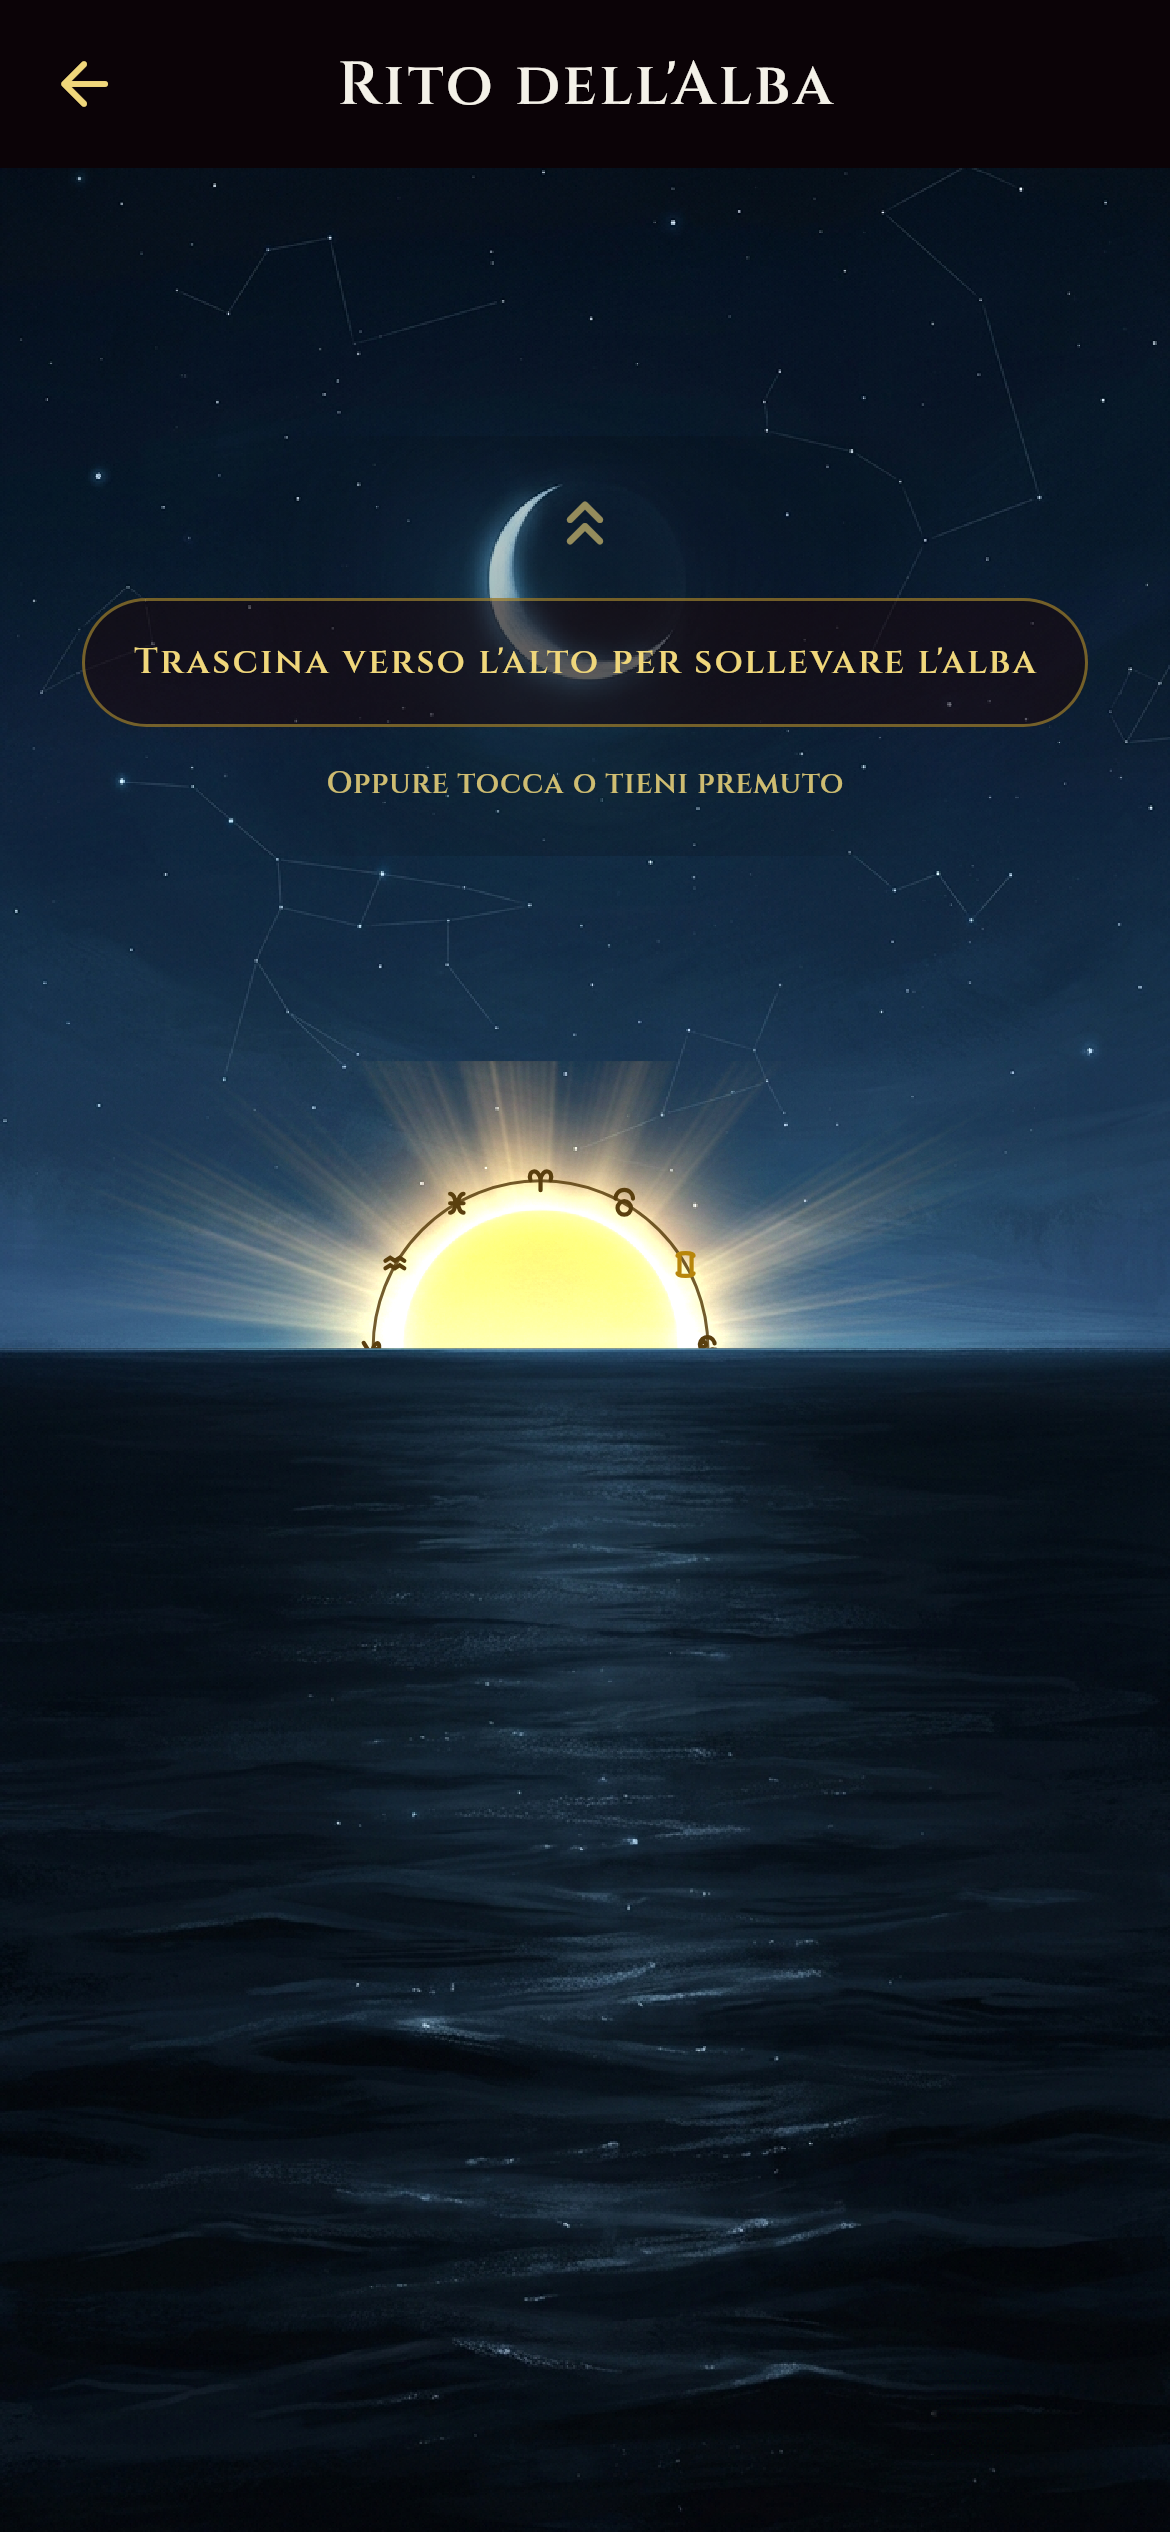
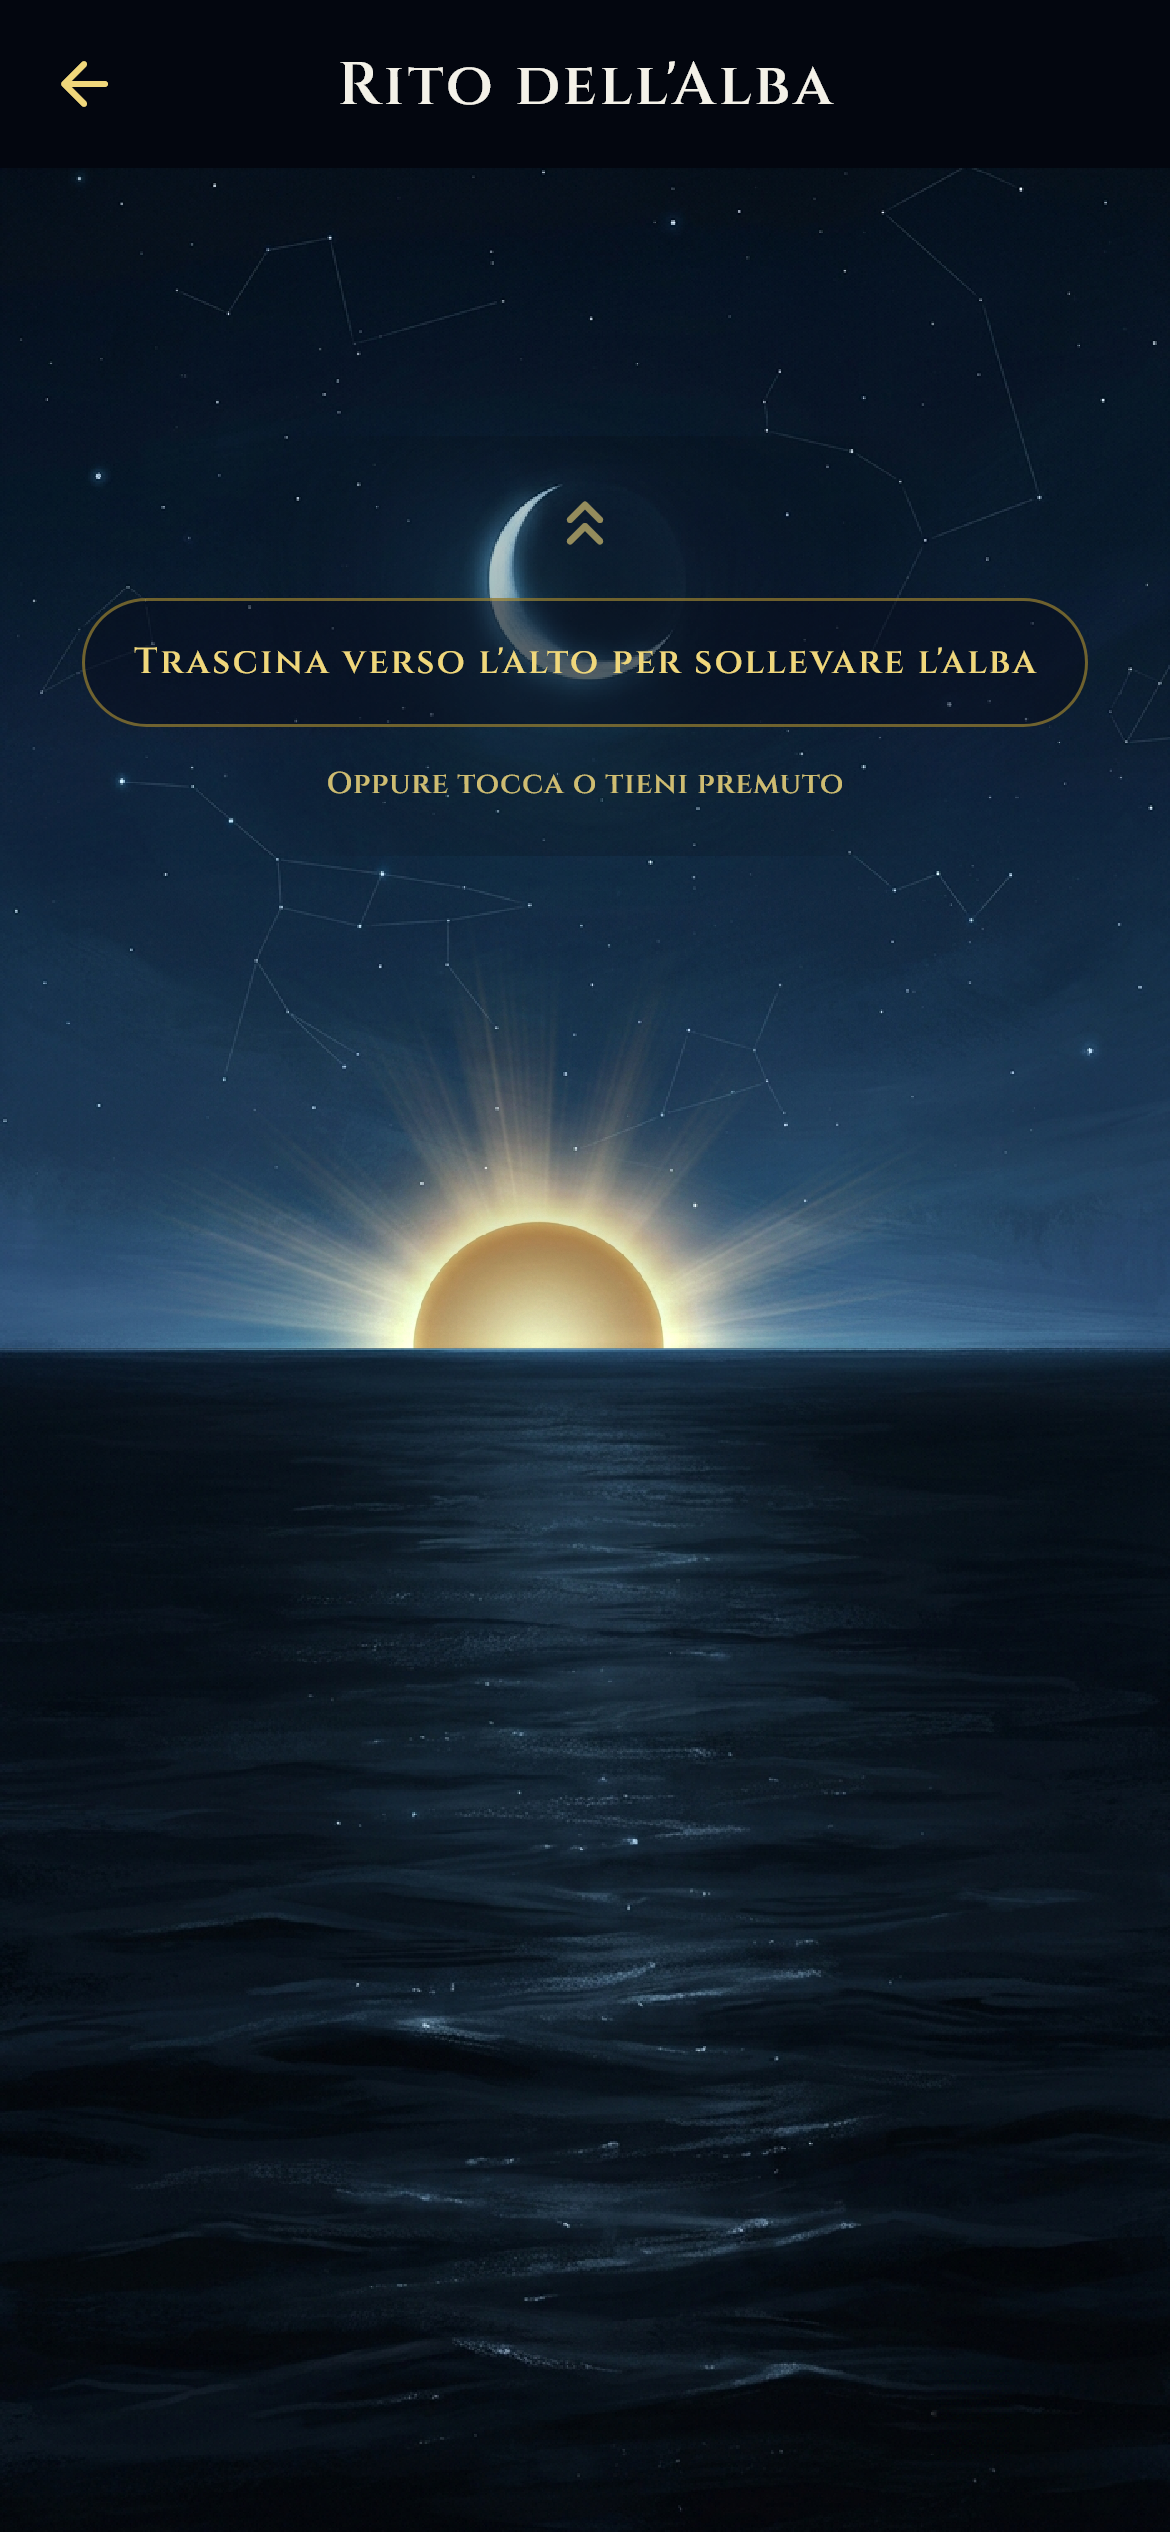
Rito dell'Alba: scena senza corona e sole dorato calibrato
Toglie la corona zodiacale disegnata attorno al sole: la scena resta pulita col
solo sole. Il componente ZodiacWheel e la funzione drawZodiacGlyph restano nel
codice, ci serviranno dentro il dono, ma non si disegnano piu' sulla scena.

Calibra il sole per la nuova immagine dorata con ampio margine. Il disco e'
dimensionato grande e protagonista senza invadere, coi raggi liberi di
estendersi senza taglio grazie al margine nero. L'additivo da solo saturava a
bianco sul cielo diurno luminoso: ora un velo scuro morbido abbassa il cielo
sotto il disco, sfumando al bordo senza aloni, e l'additivo dorato ci si posa
sopra restando caldo e non bianco, mantenendo comunque il bagliore del sorgere.
La frazione del disco nell'immagine passa a 0.171, per il nuovo formato.

Il resto del motore resta com'e': mezzo sole all'avvio, salita fino al posto
della luna, dissolvenza notte giorno, riflesso sul mare. Anteprime dei due stati
e della base rigenerate.

Changed region(s): [[0.2154, 0.4056, 0.7077, 0.5304]]

diff --git a/lib/features/rituals/dawn_rite_screen.dart b/lib/features/rituals/dawn_rite_screen.dart
@@ -6,15 +6,12 @@ import 'package:flutter/material.dart';
 import 'package:provider/provider.dart';
 import 'package:share_plus/share_plus.dart';
 
-import '../../core/astro/night_sky.dart';
-import '../../core/astro/zodiac.dart';
 import '../../core/identity/birth_identity.dart';
 import '../../core/identity/profile_controller.dart';
 import '../../core/maestro/maestro.dart';
 import '../../core/rituals/daily_rituals.dart';
 import '../../core/rituals/dawn_gift.dart';
 import '../../core/rituals/ritual_streak.dart';
-import '../../design_system/components/zodiac_wheel.dart';
 import '../../design_system/theme/maestro_palette.dart';
 import '../../design_system/theme/maestro_scope.dart';
 import '../../design_system/tokens/color_tokens.dart';
@@ -136,12 +133,6 @@ class _DawnRiteScreenState extends State<DawnRiteScreen>
   }
 
   bool get _reduceMotion => MediaQuery.of(context).disableAnimations;
-
-  // Segno solare dell'utente, se disponibile, per evidenziarlo nella corona.
-  Zodiac? _userSign() {
-    final id = _identity();
-    return id == null ? null : NightSky.sunSign(id.birthMoment);
-  }
 
   // Carta natale dell'utente dal profilo, se disponibile. Senza
   // ProfileController, per esempio montando lo screen da solo in un test, si
@@ -271,7 +262,6 @@ class _DawnRiteScreenState extends State<DawnRiteScreen>
                     night: _nightImg,
                     day: _dayImg,
                     sun: _sunImg,
-                    highlight: _userSign(),
                   ),
                 ),
               ),
@@ -769,7 +759,6 @@ class _DawnScenePainter extends CustomPainter {
     required this.night,
     required this.day,
     required this.sun,
-    required this.highlight,
   });
 
   final double progress;
@@ -778,7 +767,6 @@ class _DawnScenePainter extends CustomPainter {
   final ui.Image? night;
   final ui.Image? day;
   final ui.Image? sun;
-  final Zodiac? highlight;
 
   // Notte e giorno hanno lo stesso formato e lo stesso orizzonte; la luna sta al
   // punto dove il sole si ferma.
@@ -788,7 +776,7 @@ class _DawnScenePainter extends CustomPainter {
   static const double _moonFx = 0.462;
   static const double _moonFy = 0.210;
   // Frazione della larghezza dell'immagine del sole occupata dal disco.
-  static const double _sunDiscFrac = 0.15;
+  static const double _sunDiscFrac = 0.171;
 
   @override
   void paint(Canvas canvas, Size size) {
@@ -824,7 +812,6 @@ class _DawnScenePainter extends CustomPainter {
 
     // --- Sole: additivo, il nero sparisce e l'aura si fonde ---
     _paintSun(canvas, sun, sunCenter, discR);
-    _paintCrown(canvas, sunCenter, discR, p);
 
     // --- Mare: sotto l'orizzonte, davanti al sole, notte verso giorno ---
     canvas.save();
@@ -839,51 +826,40 @@ class _DawnScenePainter extends CustomPainter {
   }
 
   void _paintSun(Canvas canvas, ui.Image sun, Offset center, double discR) {
+    // Abbassa il cielo sotto il disco con un velo scuro morbido, che sfuma al
+    // bordo: cosi' l'additivo dorato ci si posa sopra e il disco resta caldo e
+    // non satura a bianco sul cielo diurno luminoso. Il velo sta tutto sotto il
+    // disco, non lascia aloni scuri fuori.
+    canvas.drawCircle(
+      center,
+      discR * 1.02,
+      Paint()
+        ..shader = RadialGradient(
+          colors: [
+            Colors.black.withValues(alpha: 0.5),
+            Colors.black.withValues(alpha: 0.5),
+            Colors.black.withValues(alpha: 0.0),
+          ],
+          stops: const [0.0, 0.7, 1.0],
+        ).createShader(Rect.fromCircle(center: center, radius: discR * 1.02)),
+    );
+
     final sw = sun.width.toDouble(), sh = sun.height.toDouble();
-    // Scala l'immagine cosi' il disco ha raggio discR sullo schermo.
+    // Scala l'immagine cosi' il disco ha raggio discR sullo schermo. Il margine
+    // nero ampio lascia i raggi liberi di estendersi senza taglio.
     final s = discR / (_sunDiscFrac * sw);
     final dst = Rect.fromCenter(center: center, width: sw * s, height: sh * s);
+    // Additivo a intensita' ridotta: il nero sparisce e l'aura si fonde da sola,
+    // ma sul cielo gia' abbassato il disco resta dorato, mantenendo comunque il
+    // bagliore del sorgere.
     canvas.drawImageRect(
       sun,
       Rect.fromLTWH(0, 0, sw, sh),
       dst,
-      Paint()..blendMode = BlendMode.plus,
-    );
-  }
-
-  void _paintCrown(Canvas canvas, Offset center, double discR, double p) {
-    // La corona vive sul bordo del disco, stagliata e non annegata nel bagliore:
-    // un anello sottile e i dodici simboli in bronzo scuro, che spiccano da soli
-    // sul disco luminoso senza dischetti di fondo.
-    final ringR = discR * 1.06;
-    const bronze = Color(0xFF5A3F0E);
-    canvas.drawCircle(
-      center,
-      ringR,
       Paint()
-        ..style = PaintingStyle.stroke
-        ..strokeWidth = math.max(1.0, discR * 0.01)
-        ..color = bronze.withValues(alpha: 0.85),
+        ..blendMode = BlendMode.plus
+        ..color = Colors.white.withValues(alpha: 0.78),
     );
-
-    final gs = discR * 0.085;
-    for (var i = 0; i < 12; i++) {
-      final a = 2 * math.pi * i / 12 - math.pi / 2;
-      final g = center + Offset(math.cos(a), math.sin(a)) * ringR;
-      final sign = Zodiac.values[i];
-      final lit = sign == highlight;
-      drawZodiacGlyph(
-        canvas,
-        sign,
-        g,
-        gs,
-        Paint()
-          ..style = PaintingStyle.stroke
-          ..strokeWidth = math.max(1.4, discR * 0.018)
-          ..strokeCap = StrokeCap.round
-          ..color = lit ? const Color(0xFFB8860B) : bronze,
-      );
-    }
   }
 
   void _paintReflection(
@@ -916,6 +892,5 @@ class _DawnScenePainter extends CustomPainter {
       old.reduceMotion != reduceMotion ||
       old.night != night ||
       old.day != day ||
-      old.sun != sun ||
-      old.highlight != highlight;
+      old.sun != sun;
 }
